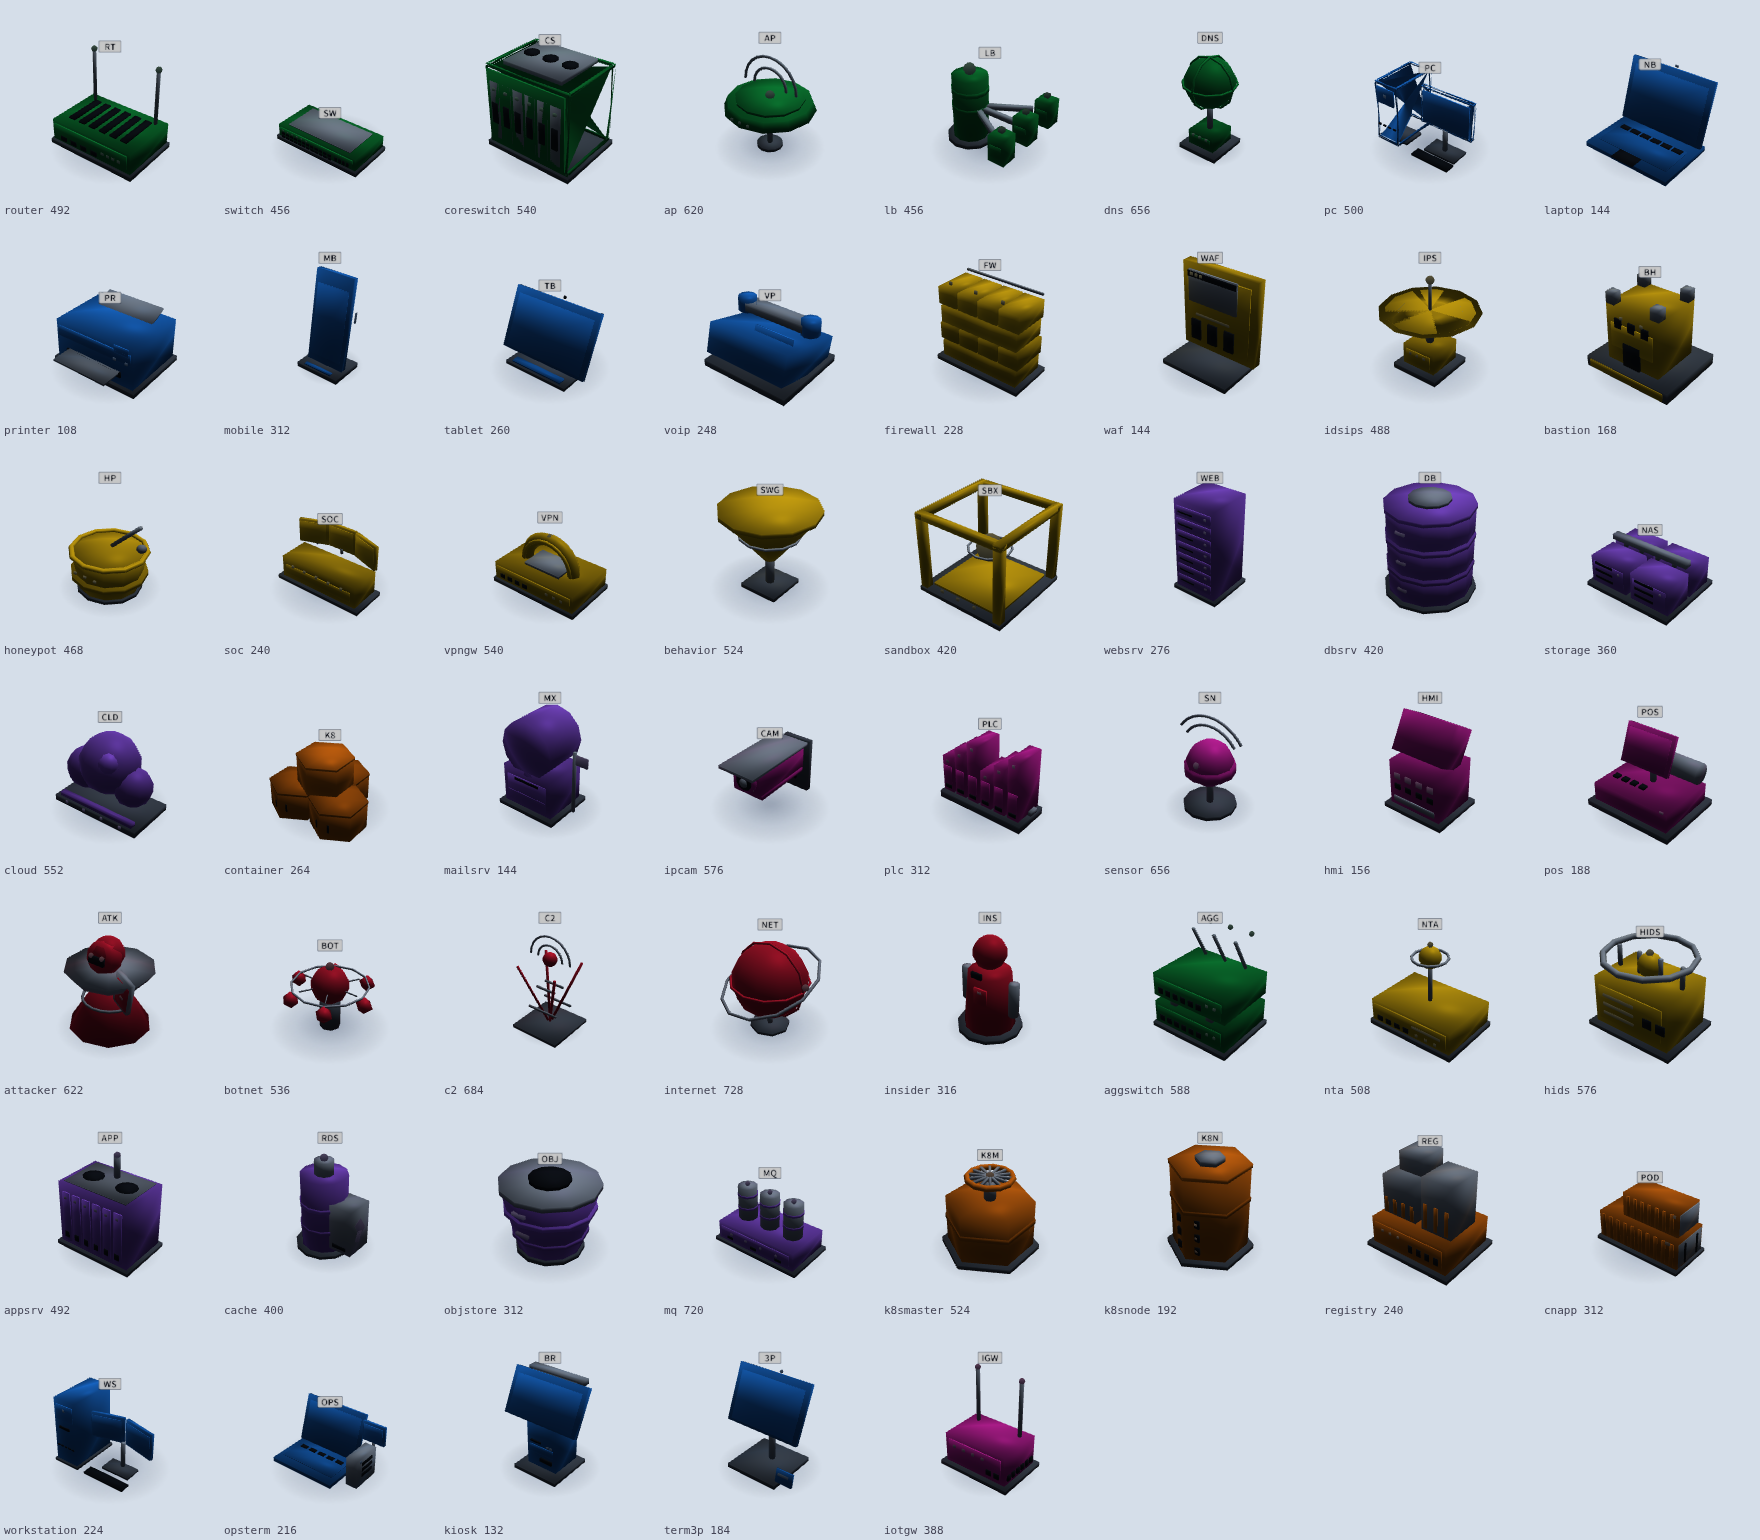
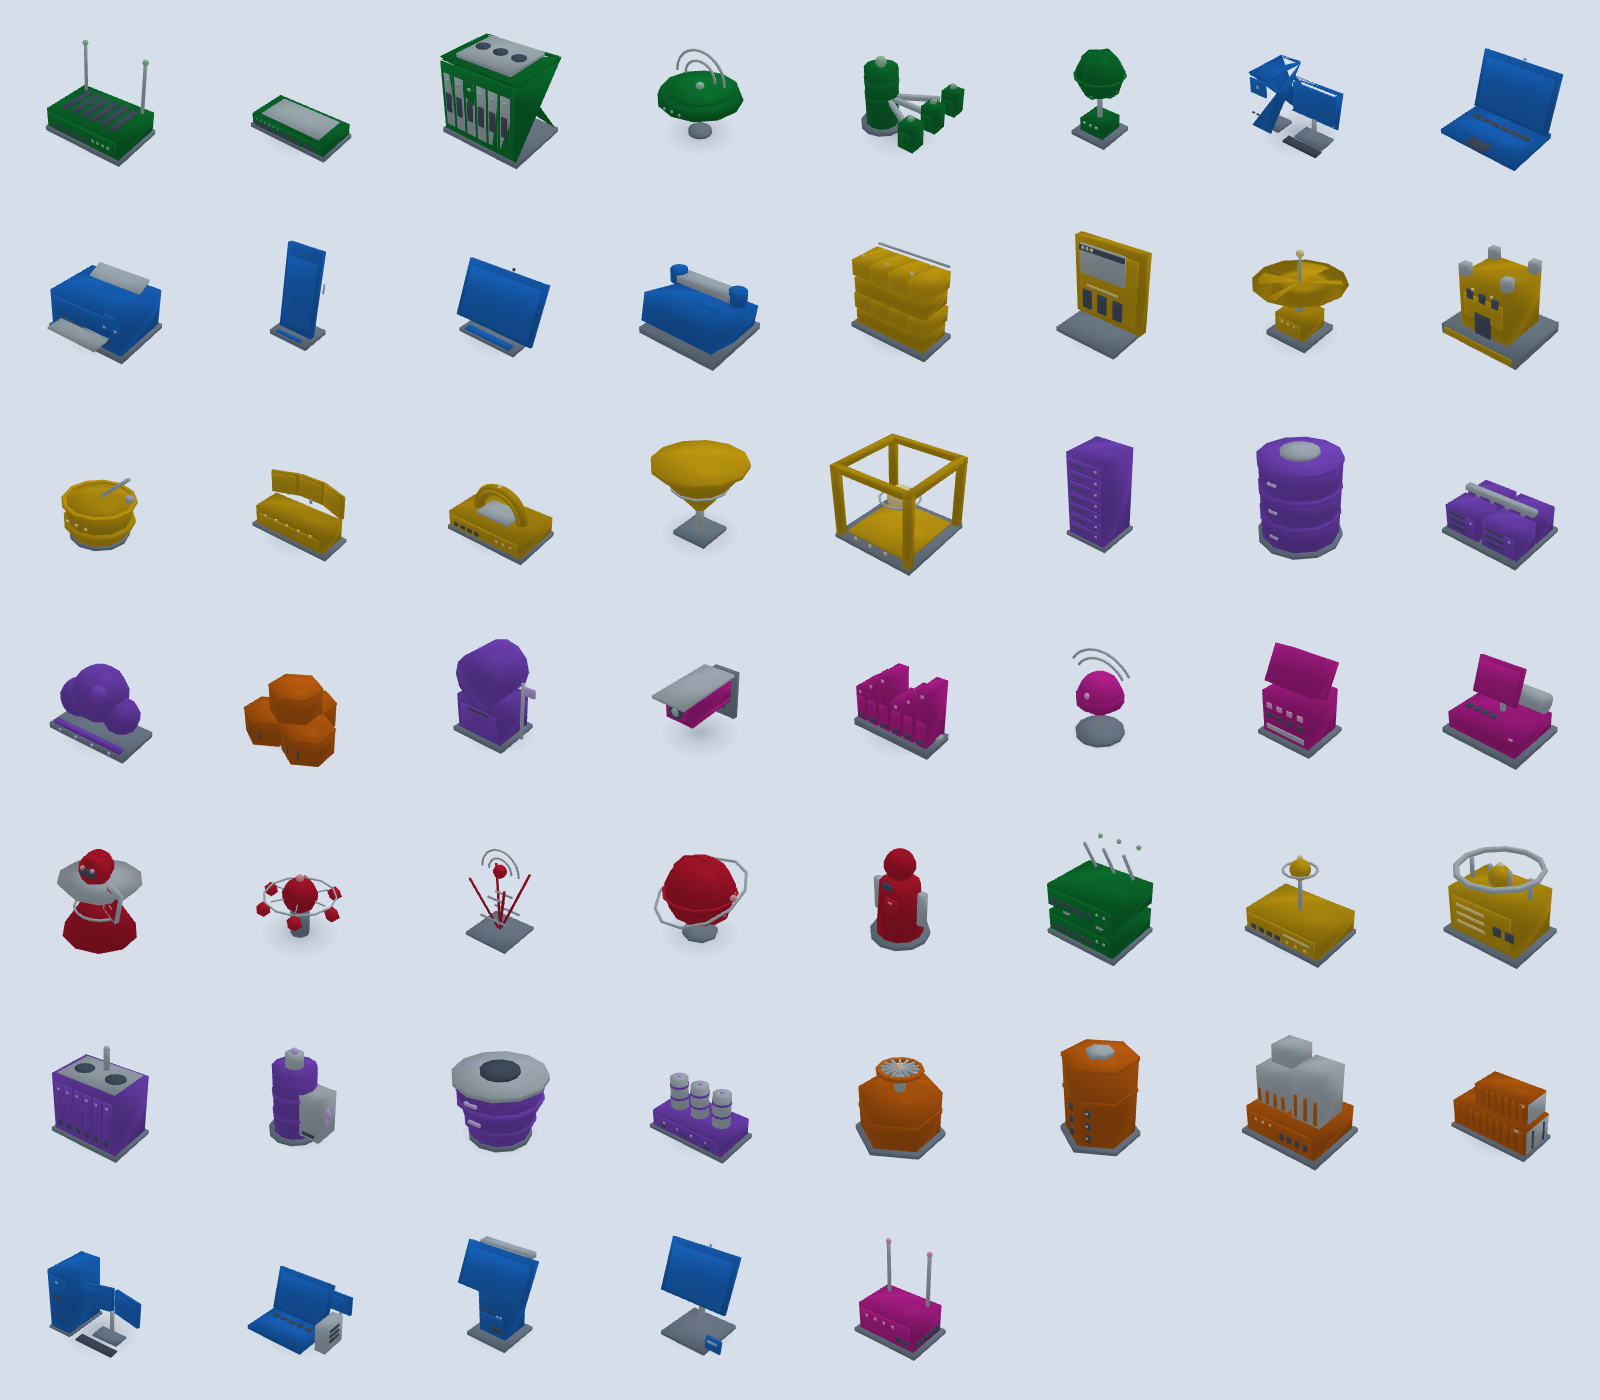
render: lift dark faces (fill~0.8, weak AO, soft contact shadow, NoToneMapping)

diff --git a/js/nodelib.js b/js/nodelib.js
@@ -236,9 +236,10 @@ function prepareRenderer(renderer) {
     if (T.ColorManagement) T.ColorManagement.enabled = false;
     if (T.LinearSRGBColorSpace) renderer.outputColorSpace = T.LinearSRGBColorSpace;
     else if (renderer.outputEncoding != null && T.LinearEncoding != null) renderer.outputEncoding = T.LinearEncoding;
-    if (renderer.toneMapping != null && T.ACESFilmicToneMapping != null) {
-      renderer.toneMapping = T.ACESFilmicToneMapping;
-      renderer.toneMappingExposure = 1.05;
+    /* ACES 压暗暗部并拉低饱和度;改用 Linear + 略提曝光,主色更清楚 */
+    if (renderer.toneMapping != null) {
+      renderer.toneMapping = T.NoToneMapping;
+      if (renderer.toneMappingExposure != null) renderer.toneMappingExposure = 1.0;
     }
   } catch (e) {}
   return renderer;
@@ -542,12 +543,11 @@ function bakeAO(geo, role) {
   let ymin = Infinity, ymax = -Infinity;
   for (let i = 0; i < n; i++) { const y = P.getY(i); if (y < ymin) ymin = y; if (y > ymax) ymax = y; }
   const yr = Math.max(1e-4, ymax - ymin);
-  const roleBias = { port: .55, detail: .72, base: .62, led: .95, face: .88, body: 1 }[role] || .9;
+  const roleBias = { port: .9, detail: .94, base: .92, led: 1, face: .97, body: 1 }[role] || .95;
   for (let i = 0; i < n; i++) {
     const ny = N.getY(i), h = (P.getY(i) - ymin) / yr;
-    let a = roleBias * (0.62 + 0.28 * h + 0.18 * Math.max(0, ny));
-    if (role === 'port') a *= 0.78;
-    ao[i] = Math.max(.4, Math.min(1, a));
+    let a = roleBias * (0.9 + 0.07 * h + 0.04 * Math.max(0, ny));
+    ao[i] = Math.max(.85, Math.min(1, a));
   }
   geo.setAttribute('aAo', new root.THREE.BufferAttribute(ao, 1));
 }
@@ -574,23 +574,25 @@ function buildModel(T, type) {
 }
 /* 设备着色器:半球环境 + 朗伯 + 低光泽 Blinn-Phong + 收窄边缘光 + 顶点 AO;led 不受光照 */
 const VS_DEV = 'attribute float aAo;varying vec3 vN;varying vec3 vV;varying float vAo;void main(){vec4 mv=modelViewMatrix*vec4(position,1.);vN=normalize(normalMatrix*normal);vV=normalize(-mv.xyz);vAo=aAo;gl_Position=projectionMatrix*mv;}';
-const FS_DEV = 'uniform vec3 uColor,uRim,uHemiSky,uHemiGnd;uniform float uRimK,uLam,uAmb,uSpec,uShin;varying vec3 vN;varying vec3 vV;varying float vAo;void main(){vec3 N=normalize(vN);vec3 V=normalize(vV);vec3 L=normalize(vec3(.35,.85,.45));float ndl=max(dot(N,L),0.);float hemi=.5+.5*N.y;vec3 amb=mix(uHemiGnd,uHemiSky,hemi)*uAmb;vec3 diff=uColor*(amb+(1.-uAmb)*ndl*uLam);vec3 H=normalize(L+V);float sp=pow(max(dot(N,H),0.),uShin)*uSpec*ndl;float fr=pow(1.-max(abs(dot(N,V)),0.),3.2);vec3 c=(diff+uRim*sp+uRim*fr*uRimK)*vAo;gl_FragColor=vec4(c,1.);}';
-const ROLE_FIX = { dark: { base: '#2E3742', port: '#151B24', detail: '#7C8B9E' }, light: { base: '#5a6676', port: '#1e2632', detail: '#9aa8ba' } };
-const ROLE_K = { dark: { body: .62, face: 1.0, rim: { body: .32, face: .2, base: .1, port: .06, led: 0, detail: .18 }, spec: { body: .18, face: .22, base: .06, port: .04, led: 0, detail: .12 }, shin: { body: 28, face: 36, base: 16, port: 20, led: 1, detail: 24 } }, light: { body: .78, face: 1.0, rim: { body: .18, face: .12, base: .06, port: .04, led: 0, detail: .1 }, spec: { body: .12, face: .14, base: .04, port: .03, led: 0, detail: .08 }, shin: { body: 32, face: 40, base: 18, port: 22, led: 1, detail: 28 } } };
+const FS_DEV = 'uniform vec3 uColor,uRim,uHemiSky,uHemiGnd;uniform float uRimK,uLam,uAmb,uSpec,uShin,uFill;varying vec3 vN;varying vec3 vV;varying float vAo;void main(){vec3 N=normalize(vN);vec3 V=normalize(vV);vec3 Ldir=normalize(vec3(.35,.85,.45));float ndl=max(dot(N,Ldir),0.);float hemi=.5+.5*N.y;vec3 ambCol=mix(uHemiGnd,uHemiSky,hemi);float ambL=dot(ambCol,vec3(.2126,.7152,.0722));float shade=mix(uFill,1.,smoothstep(0.,1.,ndl)*.85);float lit=shade*(.55+uAmb*ambL*.9);vec3 diff=uColor*lit;vec3 H=normalize(Ldir+V);float sp=pow(max(dot(N,H),0.),uShin)*uSpec*ndl;float fr=pow(1.-max(abs(dot(N,V)),0.),3.6);vec3 c=(diff+uRim*sp*.55+uRim*fr*uRimK*.85)*vAo;gl_FragColor=vec4(c,1.);}';
+const ROLE_FIX = { dark: { base: '#556578', port: '#3a4860', detail: '#a8b6c8' }, light: { base: '#7a8a9c', port: '#4a586c', detail: '#b0bec8' } };
+const ROLE_K = { dark: { body: .78, face: 1.0, rim: { body: .22, face: .14, base: .08, port: .04, led: 0, detail: .12 }, spec: { body: .18, face: .22, base: .06, port: .04, led: 0, detail: .12 }, shin: { body: 28, face: 36, base: 16, port: 20, led: 1, detail: 24 } }, light: { body: .88, face: 1.0, rim: { body: .12, face: .08, base: .04, port: .03, led: 0, detail: .07 }, spec: { body: .12, face: .14, base: .04, port: .03, led: 0, detail: .08 }, shin: { body: 32, face: 40, base: 18, port: 22, led: 1, detail: 28 } } };
 function roleColor(T, main, role, theme) {
   const F = ROLE_FIX[theme]; if (F[role]) return new T.Color(F[role]);
   if (role === 'led') return main.clone().lerp(new T.Color('#ffffff'), .55);
   return main.clone().multiplyScalar(ROLE_K[theme][role]);
 }
 function hemiColors(theme) {
-  return theme === 'light' ? { sky: new root.THREE.Color('#f2f5fa'), gnd: new root.THREE.Color('#8a96a8') } : { sky: new root.THREE.Color('#b0c0d8'), gnd: new root.THREE.Color('#080c14') };
+  return theme === 'light' ? { sky: new root.THREE.Color('#ffffff'), gnd: new root.THREE.Color('#d8dee8') } : { sky: new root.THREE.Color('#e2eaf5'), gnd: new root.THREE.Color('#5a6880') };
 }
 function devMat(T, main, role, theme) {
   const c = roleColor(T, main, role, theme), H = hemiColors(theme), K = ROLE_K[theme];
   return new T.ShaderMaterial({ uniforms: {
     uColor: { value: c.clone() }, uRim: { value: main.clone() }, uRimK: { value: K.rim[role] },
-    uLam: { value: role === 'led' ? 0 : 1 }, uAmb: { value: theme === 'light' ? .42 : .32 },
-    uSpec: { value: K.spec[role] }, uShin: { value: K.shin[role] },
+    uLam: { value: role === 'led' ? 0 : 1 },
+    uAmb: { value: theme === 'light' ? .45 : .4 },
+    uFill: { value: theme === 'light' ? .78 : .80 },
+    uSpec: { value: K.spec[role] * .75 }, uShin: { value: K.shin[role] },
     uHemiSky: { value: H.sky }, uHemiGnd: { value: H.gnd },
   }, vertexShader: VS_DEV, fragmentShader: FS_DEV });
 }
@@ -601,8 +603,8 @@ function contactShadow(T, theme, size) {
   const m = new T.Mesh(texCache[geoKey], new T.MeshBasicMaterial({ map: texCache[key], transparent: true, depthWrite: false, opacity: 1 })); m.rotation.x = -PI / 2; m.position.y = .001; m.renderOrder = -2; m.userData.isContactShadow = true; return m; }
   const c = document.createElement('canvas'); c.width = 64; c.height = 64; const x = c.getContext('2d');
   const g = x.createRadialGradient(32, 32, 2, 32, 32, 30);
-  g.addColorStop(0, theme === 'light' ? 'rgba(30,40,60,.32)' : 'rgba(0,0,0,.55)');
-  g.addColorStop(.55, theme === 'light' ? 'rgba(30,40,60,.12)' : 'rgba(0,0,0,.22)');
+  g.addColorStop(0, theme === 'light' ? 'rgba(30,40,60,.22)' : 'rgba(0,0,0,.25)');
+  g.addColorStop(.5, theme === 'light' ? 'rgba(30,40,60,.08)' : 'rgba(0,0,0,.1)');
   g.addColorStop(1, 'rgba(0,0,0,0)');
   x.fillStyle = g; x.fillRect(0, 0, 64, 64);
   const tex = new T.CanvasTexture(c); texCache[key] = tex;
@@ -638,7 +640,7 @@ function createNode(type, opts) {
   });
   const box = M.box.clone(); const size = box.getSize(new T.Vector3()); const norm = M.norm, raw = M.raw;
   group.scale.setScalar(scale);
-  group.add(contactShadow(T, theme, Math.max(size.x, size.z) * 1.15 + .15));
+  group.add(contactShadow(T, theme, Math.max(size.x, size.z) * 0.85 + .08));
   const radius = Math.max(size.x, size.z) * .5 * scale;
   const out = { group, type, spec: sp, cat: sp.cat, color, theme, scale, norm, rawSize: raw, roles: M.parts.map(p => p.name), tris: M.tris, verts: M.verts, parts: M.parts.length, mats: M.parts.length, stats: { tris: M.tris, verts: M.verts, parts: M.parts.length, mats: M.parts.length }, bounds: { height: box.max.y * scale, radius, cube: CUBE * scale, size: { x: +(size.x * scale).toFixed(4), y: +(size.y * scale).toFixed(4), z: +(size.z * scale).toFixed(4) } }, state: 'normal' };
   if (o.mask) { out.update = () => { }; out.setState = () => { }; out.setLabel = () => { }; out.dispose = () => { mats.forEach(m => m.dispose()); }; return out; }

diff --git a/nodes.html b/nodes.html
@@ -44,7 +44,7 @@
   </main>
 </div>
 <script src="lib/three.bundle.js?v=ebfe9ba7"></script>
-<script src="js/nodelib.js?v=93b9fcfe"></script>
+<script src="js/nodelib.js?v=90871b6e"></script>
 <script src="js/theme.js?v=69e90e94"></script>
 <script src="js/nodes.js?v=a5be9818"></script>
 </body>

diff --git a/docs/nodes-research.md b/docs/nodes-research.md
@@ -199,3 +199,8 @@ n.dispose();
 - 接触阴影贴片；着色器=半球环境+朗伯+低光泽 Blinn-Phong+收窄边缘光+顶点 AO；ACES 色调映射；antialias MSAA。
 - 详情面板显示三角面/顶点/部件数；可选转展台(默认关)。
 - 面数: 37170 → 20426 (avg 701.3 → 385.4)。
+
+## 附录 · 渲染抬暗面(2026-10)
+- 关闭 ACES,改 NoToneMapping;提高填充光(uFill≈0.78–0.80),暗面约亮面 60%+。
+- AO 减弱;接触阴影不透明度≈0.25、范围缩小;port/detail 灰提亮一档。
+- 着色改为只缩放亮度、不洗主色相,绿/蓝/黄饱和度保持。
